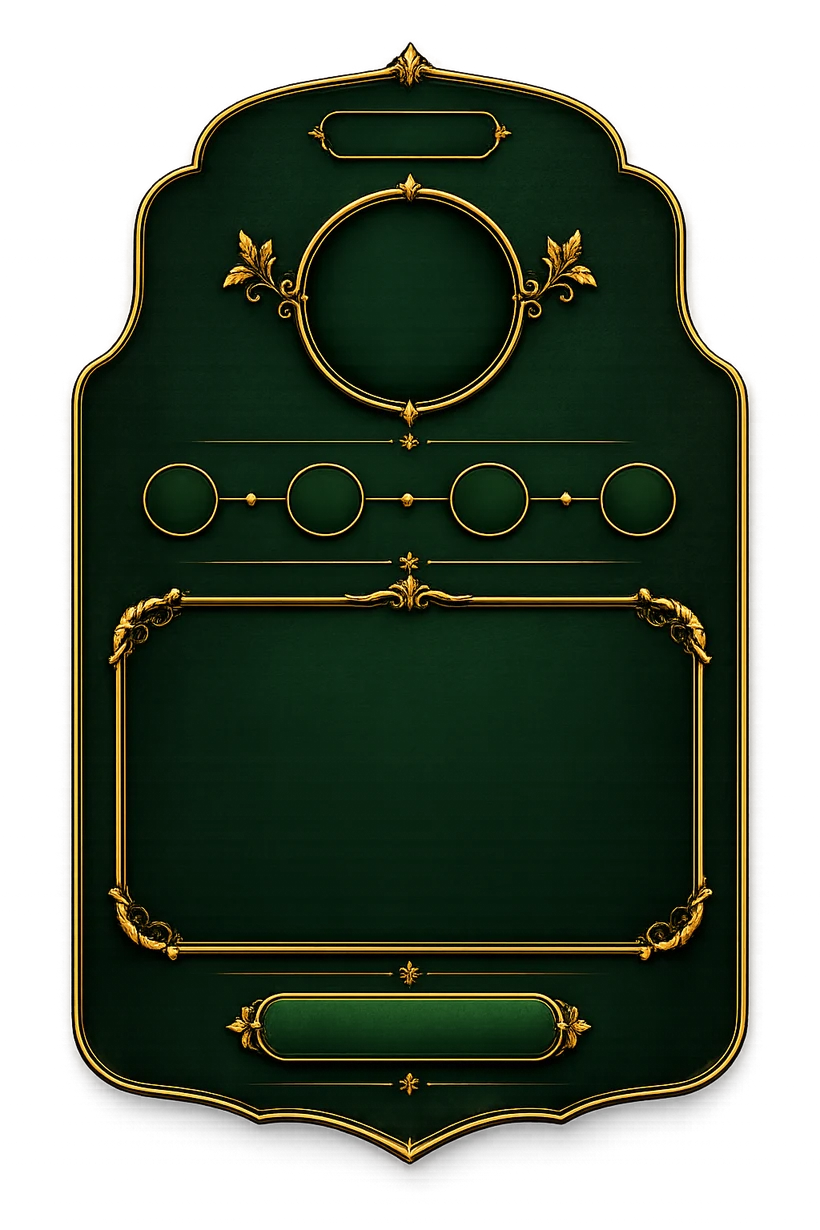
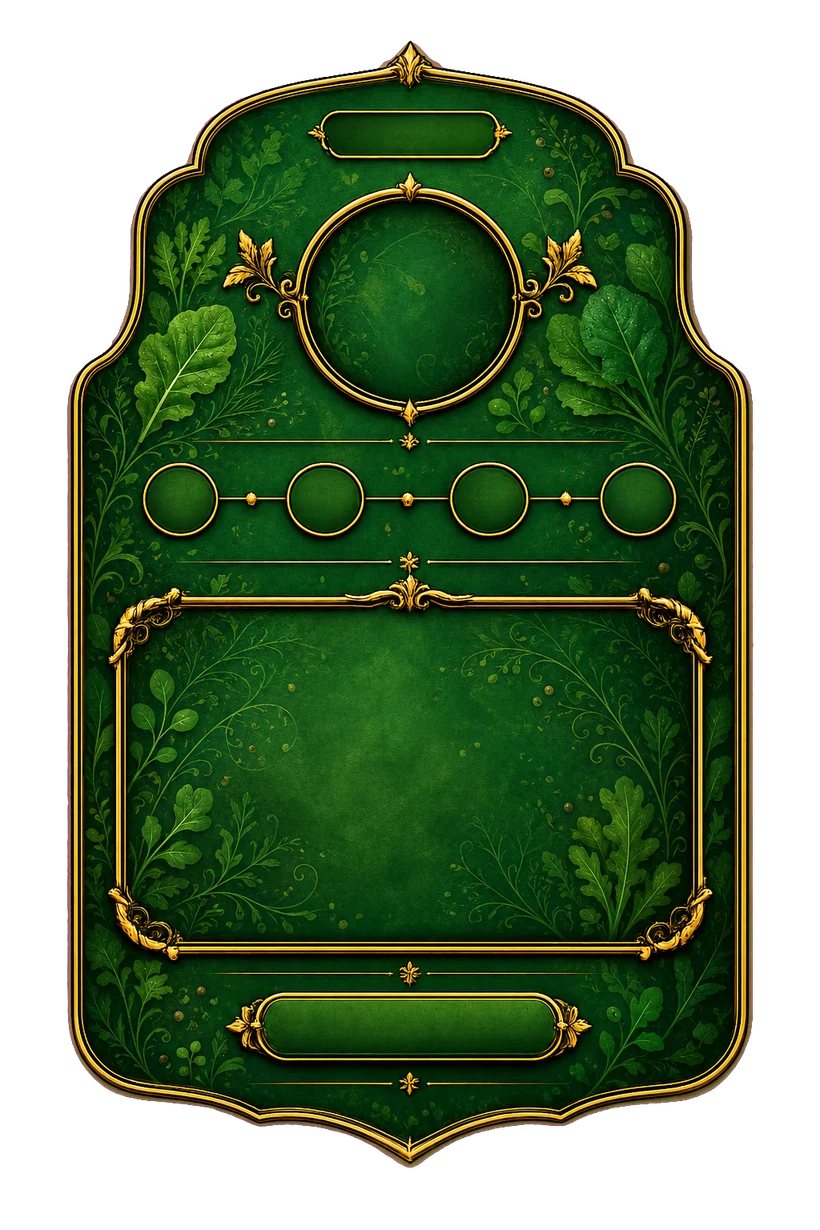
feat: tracking board on the BG2v3 artwork
Same tag-shaped composition with a botanical texture, and properly keyed this
time. Every slot measured out identical to BG2 -- nameplate, hero ring, the four
rail circles, card and pill all land on the same pixels -- so this is a pure
asset swap with no geometry change.

The key is far cleaner than the previous version: 8 pixels out of 1.57M keep any
magenta signature, worst m=21, against 308 before. And it is SMALLER at 197KB
versus 262KB, because a leaf texture compresses better than the smooth gradient
glow it replaces.

One real consequence of the busier ground, measured rather than assumed. Median
contrast for white text is ~11:1 in every slot, which is fine, but the brightest
1-3% -- leaf highlights and gold flecks -- is light enough that the faintest
text landing on those pixels drops toward 2.5:1. The ingredient names were the
worst at 50% white. Every line inside the card now carries a shadow, and the
dim text was lifted: names 0.50 -> 0.72, status sub 0.62 -> 0.78, pickup row
0.68 -> 0.82, bowl label 0.60 -> 0.75.

Verified: tsc clean, lint 0 errors / 14 warnings, build compiled, 34 assertions
passing.

diff --git a/src/app/order/[id]/OrderStatusView.tsx b/src/app/order/[id]/OrderStatusView.tsx
@@ -574,7 +574,7 @@ const P: Record<string, React.CSSProperties> = {
     // the img restarts the entrance on every status change.
     medallion: { width: '118%', height: '118%', objectFit: 'contain', flexShrink: 0, animation: 'medallionIn 0.5s cubic-bezier(0.34,1.5,0.64,1) both' },
 
-    statusLabel: { fontSize: 'clamp(14px, 4.4vw, 18px)', fontWeight: 900, color: '#fff', lineHeight: 1.15, textShadow: '0 1px 6px rgba(0,0,0,0.6)' },
+    statusLabel: { fontSize: 'clamp(14px, 4.4vw, 18px)', fontWeight: 900, color: '#fff', lineHeight: 1.15, textShadow: '0 1px 4px rgba(0,0,0,0.8)' },
     statusLabelReady: { color: '#8ee08e' },
 
     // Overlays the circles the art draws, which supply the gold rim — hence the
@@ -598,11 +598,16 @@ const P: Record<string, React.CSSProperties> = {
     // type floors would not, which is where this overflows first.
     band: { display: 'flex', flexDirection: 'column', alignItems: 'center', justifyContent: 'center', gap: '2px', overflow: 'hidden', padding: '0 3%' },
 
-    statusSub: { display: 'flex', alignItems: 'center', justifyContent: 'center', gap: '5px', fontSize: 'clamp(8px, 3.0vw, 12px)', fontWeight: 600, color: 'rgba(255,255,255,0.62)', textAlign: 'center' as const, lineHeight: 1.25 },
-    statusSubReady: { color: '#a5d6a7', fontWeight: 800 },
+    // The artwork's slots are a botanical texture, not flat green: median
+    // contrast for white text is ~11:1, but the brightest 1-3% of it (leaf
+    // highlights and gold flecks) is light enough that faint text landing on
+    // those pixels drops toward 2.5:1. Hence the lift in opacity and the shadow
+    // on every line inside the card.
+    statusSub: { display: 'flex', alignItems: 'center', justifyContent: 'center', gap: '5px', fontSize: 'clamp(8px, 3.0vw, 12px)', fontWeight: 600, color: 'rgba(255,255,255,0.78)', textAlign: 'center' as const, lineHeight: 1.25, textShadow: '0 1px 3px rgba(0,0,0,0.75)' },
+    statusSubReady: { color: '#b6e6b6', fontWeight: 800 },
     statusSubOffline: { color: '#ffc266', fontWeight: 700 },
 
-    pickupRow: { display: 'flex', alignItems: 'center', gap: '6px', fontSize: 'clamp(8px, 3.1vw, 12px)', color: 'rgba(255,255,255,0.68)', fontWeight: 600, lineHeight: 1.25 },
+    pickupRow: { display: 'flex', alignItems: 'center', gap: '6px', fontSize: 'clamp(8px, 3.1vw, 12px)', color: 'rgba(255,255,255,0.82)', fontWeight: 600, lineHeight: 1.25, textShadow: '0 1px 3px rgba(0,0,0,0.75)' },
     pickupClock: { color: '#f0d060', fontWeight: 900 },
     pickupSep: { color: 'rgba(255,255,255,0.25)' },
 
@@ -619,19 +624,21 @@ const P: Record<string, React.CSSProperties> = {
     // Clamped: the card is a fixed slot in the artwork, so a long ingredient
     // list must be cut off rather than pushing the composition apart.
     itemNames: {
-        fontSize: 'clamp(8px, 2.7vw, 10px)', color: 'rgba(255,255,255,0.5)', lineHeight: 1.35, textAlign: 'center' as const,
+        fontSize: 'clamp(8px, 2.7vw, 10px)', color: 'rgba(255,255,255,0.72)', lineHeight: 1.35, textAlign: 'center' as const,
+        textShadow: '0 1px 3px rgba(0,0,0,0.75)',
         display: '-webkit-box', WebkitBoxOrient: 'vertical' as unknown as undefined, WebkitLineClamp: 2, overflow: 'hidden',
     },
     notes: {
-        fontSize: 'clamp(8px, 2.7vw, 10px)', color: 'rgba(255,200,100,0.85)', fontWeight: 600, textAlign: 'center' as const,
+        fontSize: 'clamp(8px, 2.7vw, 10px)', color: 'rgba(255,205,120,0.95)', fontWeight: 600, textAlign: 'center' as const,
+        textShadow: '0 1px 3px rgba(0,0,0,0.75)',
         display: '-webkit-box', WebkitBoxOrient: 'vertical' as unknown as undefined, WebkitLineClamp: 1, overflow: 'hidden',
     },
 
     // Total, size and payment share one line — the card has room for five rows,
     // not six.
-    moneyRow: { display: 'flex', alignItems: 'baseline', justifyContent: 'center', gap: '6px', flexWrap: 'nowrap', lineHeight: 1.1 },
+    moneyRow: { display: 'flex', alignItems: 'baseline', justifyContent: 'center', gap: '6px', flexWrap: 'nowrap', lineHeight: 1.1, textShadow: '0 1px 3px rgba(0,0,0,0.75)' },
     total: { fontSize: 'clamp(15px, 5.0vw, 20px)', fontWeight: 900, color: '#f0d060' },
-    bowlLabel: { fontSize: 'clamp(8px, 2.7vw, 10px)', color: 'rgba(240,208,96,0.6)', fontWeight: 700, whiteSpace: 'nowrap' },
+    bowlLabel: { fontSize: 'clamp(8px, 2.7vw, 10px)', color: 'rgba(240,208,96,0.75)', fontWeight: 700, whiteSpace: 'nowrap' },
     payTag: { fontSize: 'clamp(8px, 2.9vw, 11px)', fontWeight: 800, whiteSpace: 'nowrap' },
     payOwed: { color: '#ffd08a' },
     payDone: { color: '#b6e6b6' },
